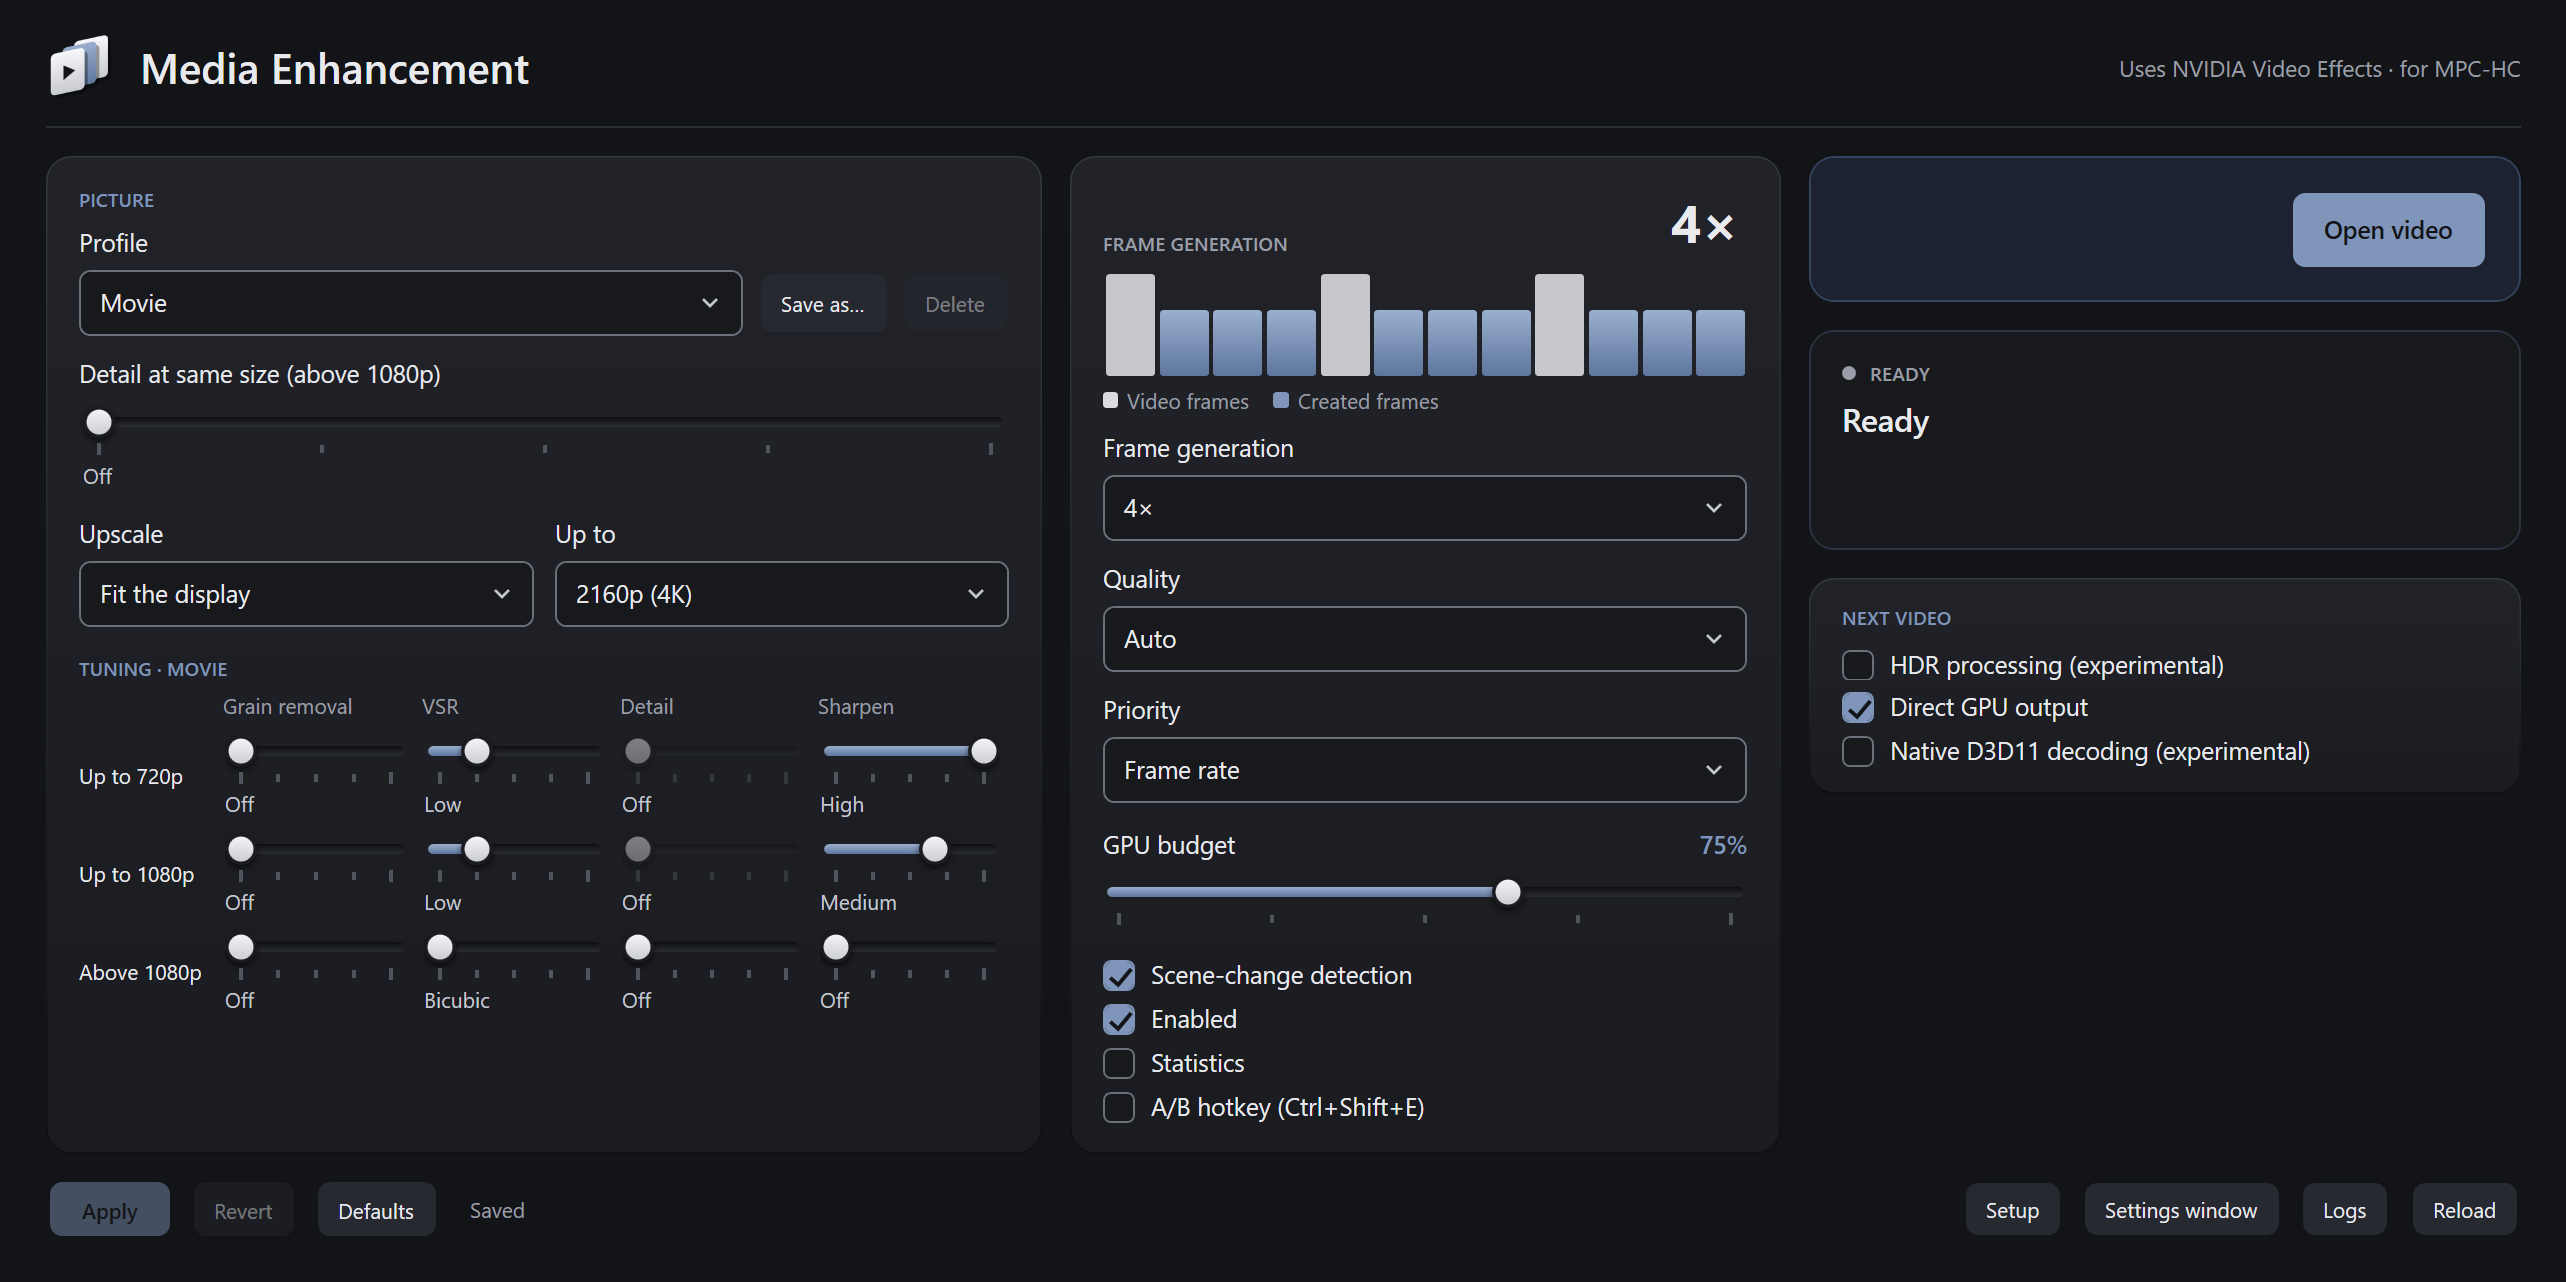
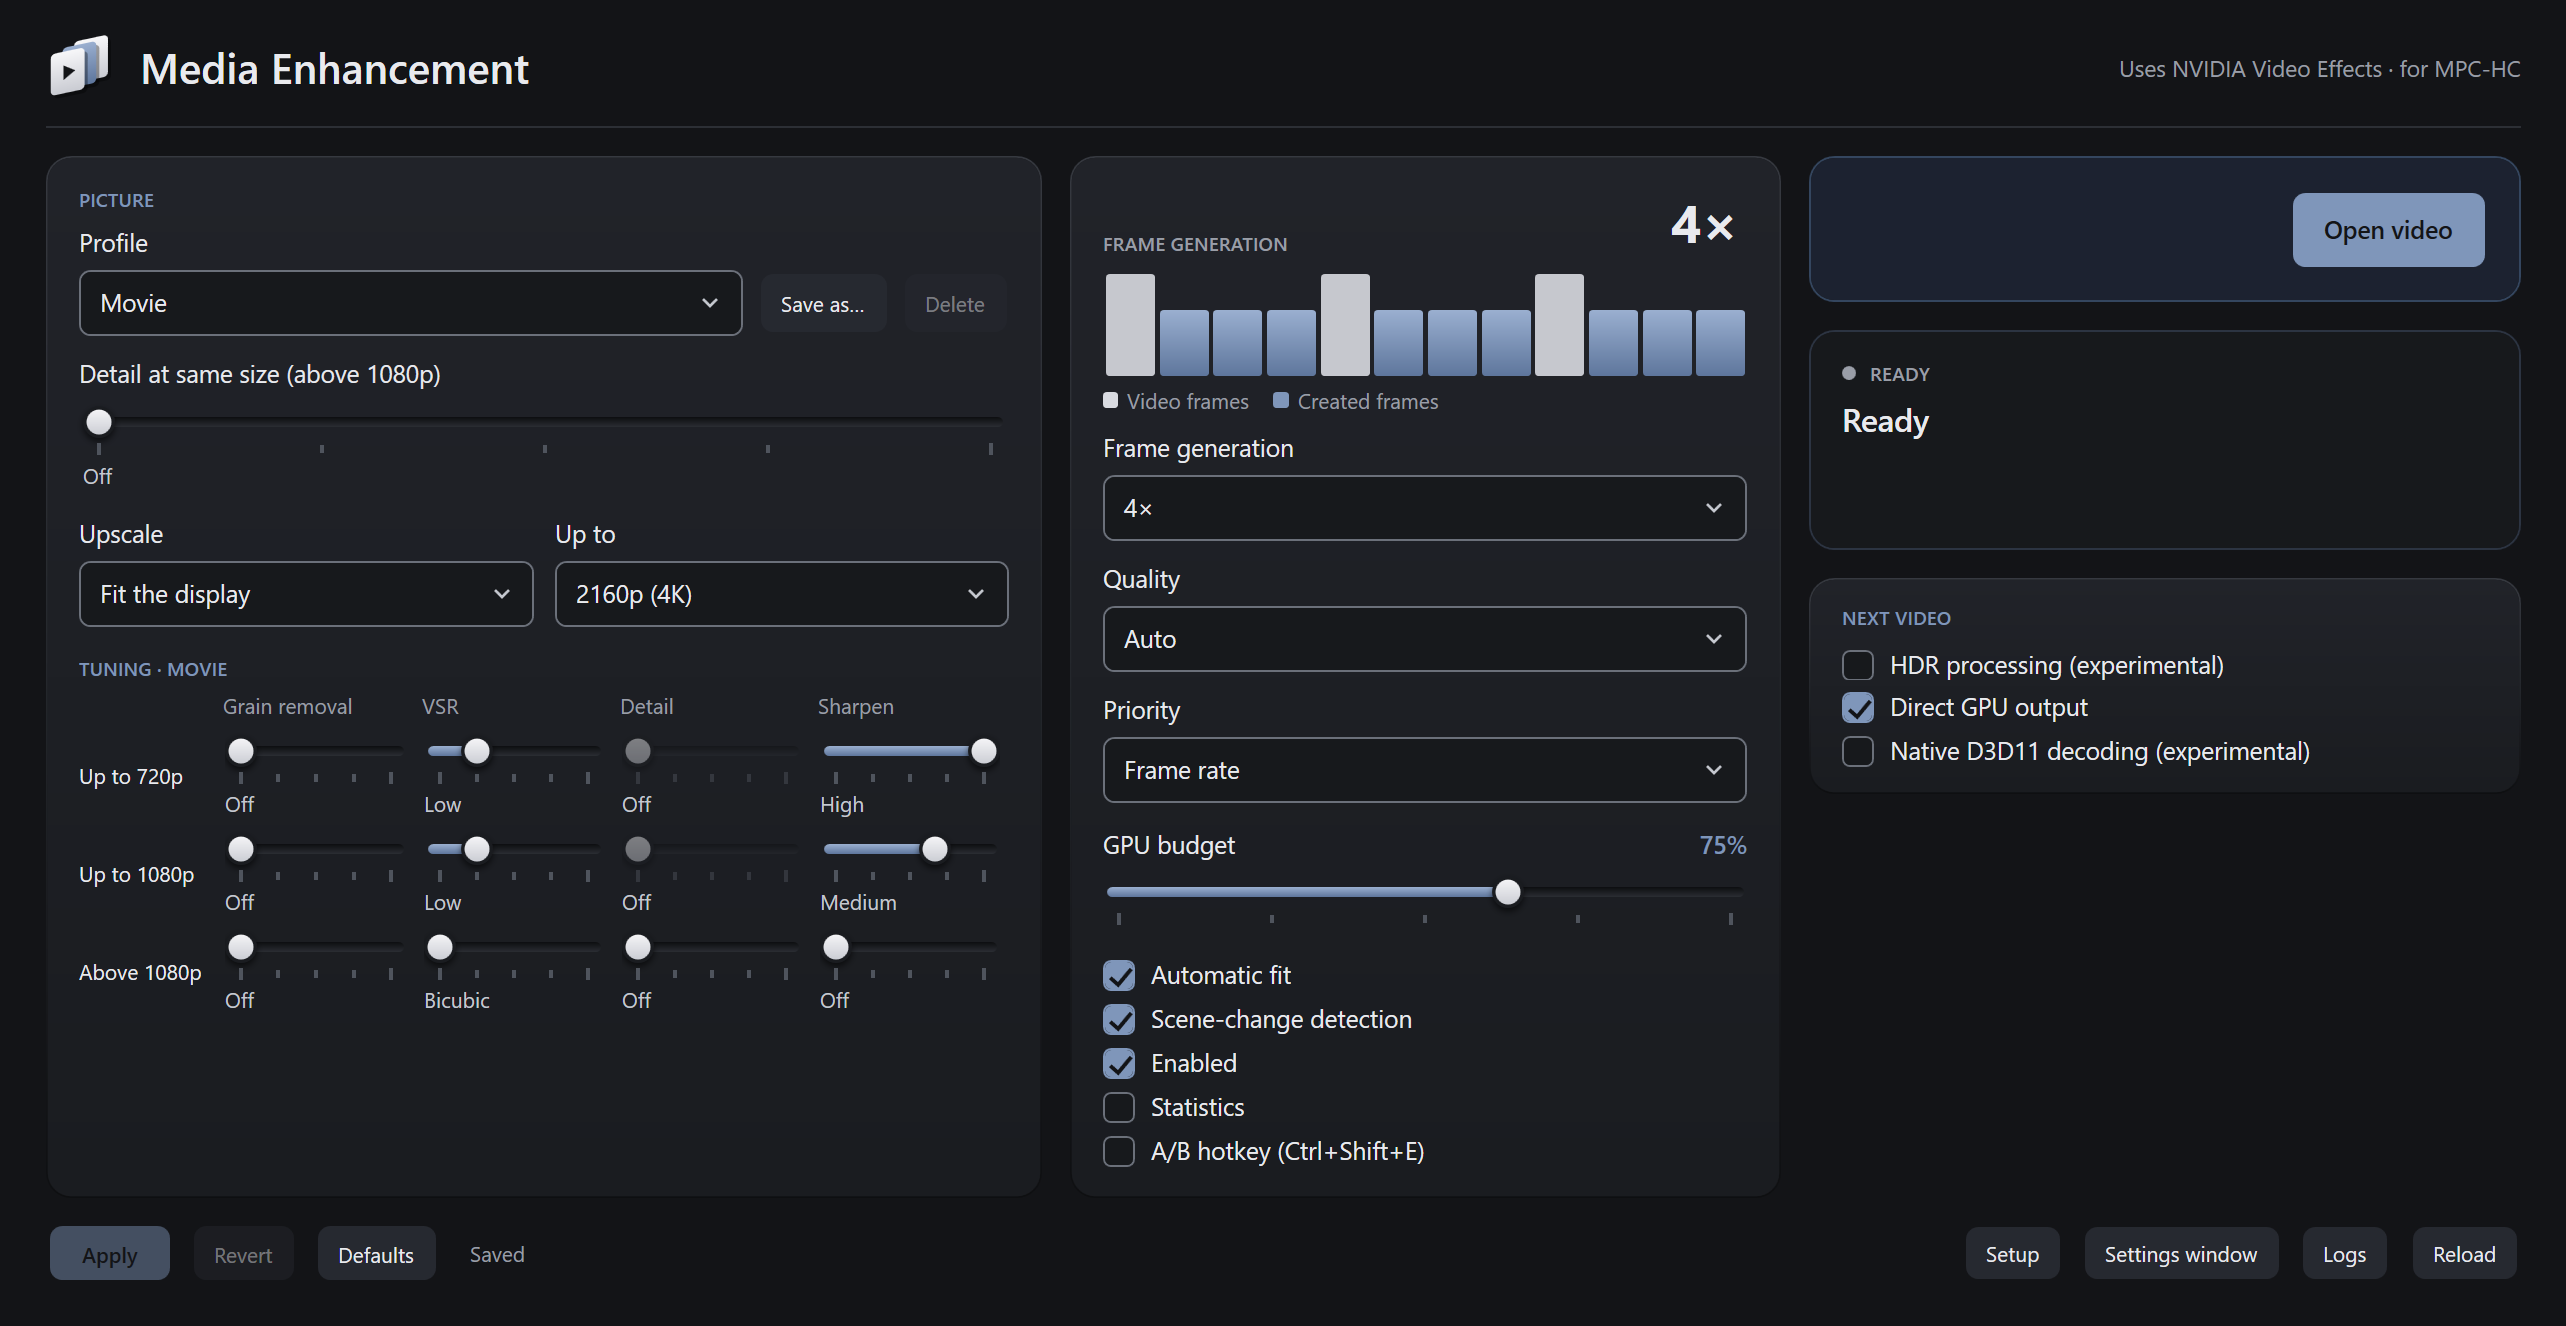
README: 1.5.5 - Automatic fit can be switched off (#4), the MPC-HC menu with side branches, new pictures
The download line and the converter's install line name Setup 1.5.5. The MPC-HC section describes the
shorter Play > Filters menu (status, the on/off switch, and Picture, Frames and Options, each with side
branches) and the Automatic fit switch. New pictures: the menu with its Frames branch, and the settings
panel and control center of 1.5.5 with the Automatic fit check box.

Claude-Session: https://claude.ai/code/session_01Af5hEsQram3B9KX5UcWWQt

diff --git a/README.md b/README.md
@@ -25,7 +25,7 @@ Media Enhancement is an independent project. It is not affiliated with, sponsore
 
 All are in the [latest release](../../releases/latest), whose notes list the SHA-256 checksums.
 
-- **For MPC-HC:** the installer, `Media-Enhancement-Setup-1.5.2.exe`. It can also install the converter (an option in Setup). See [Converter](#converter).
+- **For MPC-HC:** the installer, `Media-Enhancement-Setup-1.5.5.exe`. It can also install the converter (an option in Setup). See [Converter](#converter).
 - **For Chrome, Edge, Brave and Firefox:** the extension, `Media-Enhancement-Browser-1.4.9-Chrome-Edge-Brave.zip` and, for Firefox, `Media-Enhancement-Browser-1.4.7-Firefox.xpi` (the newer version follows once Mozilla has reviewed it). See [Browser extension](#browser-extension).
 
 ## Requirements
@@ -48,15 +48,15 @@ All are in the [latest release](../../releases/latest), whose notes list the SHA
 
 The settings can be changed in three places. They all change the same settings, and most changes apply to the playing video straight away.
 
-- **In MPC-HC:** Play › Filters › Media Enhancement. Properties in that menu opens the settings panel.
+- **In MPC-HC:** Play › Filters › Media Enhancement. The menu lists the status, the on/off switch and Picture, Frames and Options; each of these three opens its own menu, with a side branch for each group of choices. Properties in that menu opens the settings panel.
 - **Control center:** the Media Enhancement app in the Start menu. It also shows the live status of the playing video.
 - **Settings window:** Media Enhancement Settings in the Start menu, for quick changes.
 
-![The Media Enhancement menu in MPC-HC, under Play › Filters](docs/images/mpc-menu.png)
+![The Media Enhancement menu in MPC-HC, under Play › Filters, with Frames opened and its generation quality branch](docs/images/mpc-menu.png)
 
 <img src="docs/images/settings-panel.png" alt="The settings panel, which Properties opens from the menu" width="562">
 
-The menu's Status line and the panel's status box show live figures while a video plays. They are left empty in these pictures. The pictures on this page were taken with version 1.5.2 and show the Movie profile with its default levels, with frame generation set to 4×.
+The menu's Status line and the panel's status box show live figures while a video plays. The menu picture joins two pictures taken with a 1.5.3 test build, whose menu is the one in 1.5.5, in the project's test player while a video played, with frame generation at 5×, generation quality Medium and Automatic fit off: the menu, and below it the Frames menu that opens from it (the Status line's figures are left out). The other pictures on this page were taken with version 1.5.5 with no video playing (the panel's status box is left empty) and show the Movie profile with its default levels, with frame generation set to 4×.
 
 ## Features
 
@@ -64,7 +64,7 @@ The menu's Status line and the panel's status box show live figures while a vide
   - Auto chooses Movie, TV or Anime for each video and uses the recommended levels for that kind of video.
   - Movie, TV and Anime each keep their own grain removal, upscaling, detail and sharpening levels for each video height, which you can change.
   - Off turns the picture treatment off.
-  - **Custom profiles:** Save as saves the levels shown, the frame generation multiple and the priority under a name of your own; choose it from the profile list (also in Play › Filters) to use it again, and Delete removes it. Up to 32.
+  - **Custom profiles:** Save as saves the levels shown, the frame generation multiple and the priority under a name of your own; choose it from the profile list (also under Picture in the MPC-HC menu) to use it again, and Delete removes it. Up to 32.
 - **Sliders:** the levels are sliders. A level stronger than the strongest one the project's picture measurements accepted is shown in red; you can still choose it. Frame generation is a strip of bars: tall bars are the video's frames, short bars the generated ones, red past what your display can show. Click a slider where you want it, or drag it.
 - **Upscaling:** NVIDIA Video Super Resolution enlarges video to the display size. Video that is already the display size can get a detail pass instead.
 - **Film grain removal and sharpening:**
@@ -77,6 +77,7 @@ The menu's Status line and the panel's status box show live figures while a vide
   - It favours either frame rate or picture quality, as you choose.
   - It greys out settings that have no effect on your display.
   - It marks a choice that would lower frame generation with the rate it lowers to (for example "→ 3×"), and a choice that is too slow on your PC.
+  - **You can switch it off** (Automatic fit, in the menu's Frames branch, the settings panel and the control center). The frame generation multiple, the generation quality and the picture levels then play exactly as you chose them, for example Medium at 6×, also when the filter's cost estimate says they will not fit; generated frames that would come late are left out instead. A fixed multiple still stops at what the display can show.
 - **A/B hotkey:** compares the enhanced picture with the original while the video plays.
 - **Direct GPU output** (on by default): with MPC Video Renderer in its D3D11 mode, the filter hands its frames over as GPU textures, without a copy through system memory.
 - **Experimental options**, off by default: HDR processing and native D3D11 decoding.
@@ -170,7 +171,7 @@ A preview. It converts a video file to a new file with the same enhancements (up
 
 ![Split view with the divider between the original and the enhanced picture](docs/images/converter-split.png)
 
-- Install it with Setup 1.5.2: tick the Media Enhancement Converter option. It gets its own Start-menu shortcut. The original files are not changed.
+- Install it with Setup 1.5.5: tick the Media Enhancement Converter option. It gets its own Start-menu shortcut. The original files are not changed.
 - `MediaEnhancementConvert.exe` in the converter's folder is the same engine for the command line.
 - Tested: the engine's 20-case suite on an RTX 5060 with a 120 Hz display (version 0.6.2) and on an RTX 4070 Laptop GPU with a 240 Hz display (version 0.6.0). The pictures show version 0.6.2.
 - It includes FFmpeg 9.0 libraries (LGPL version 3, unchanged).
